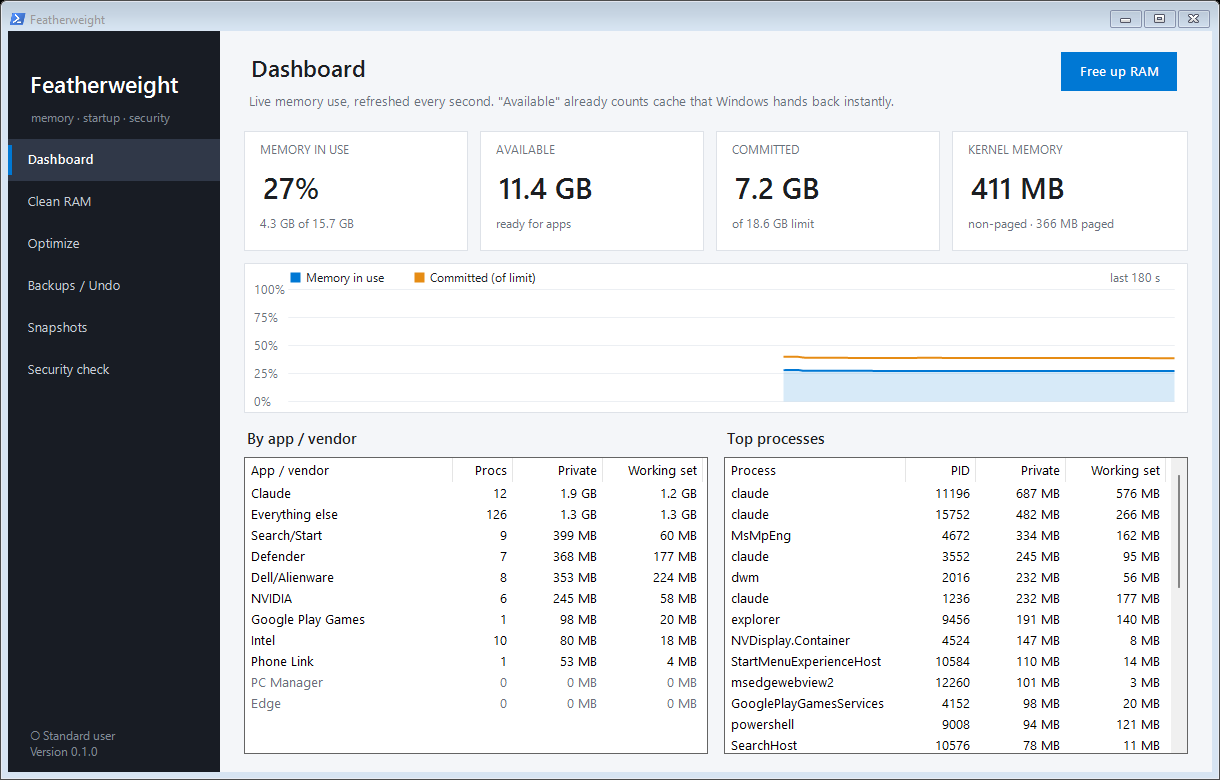
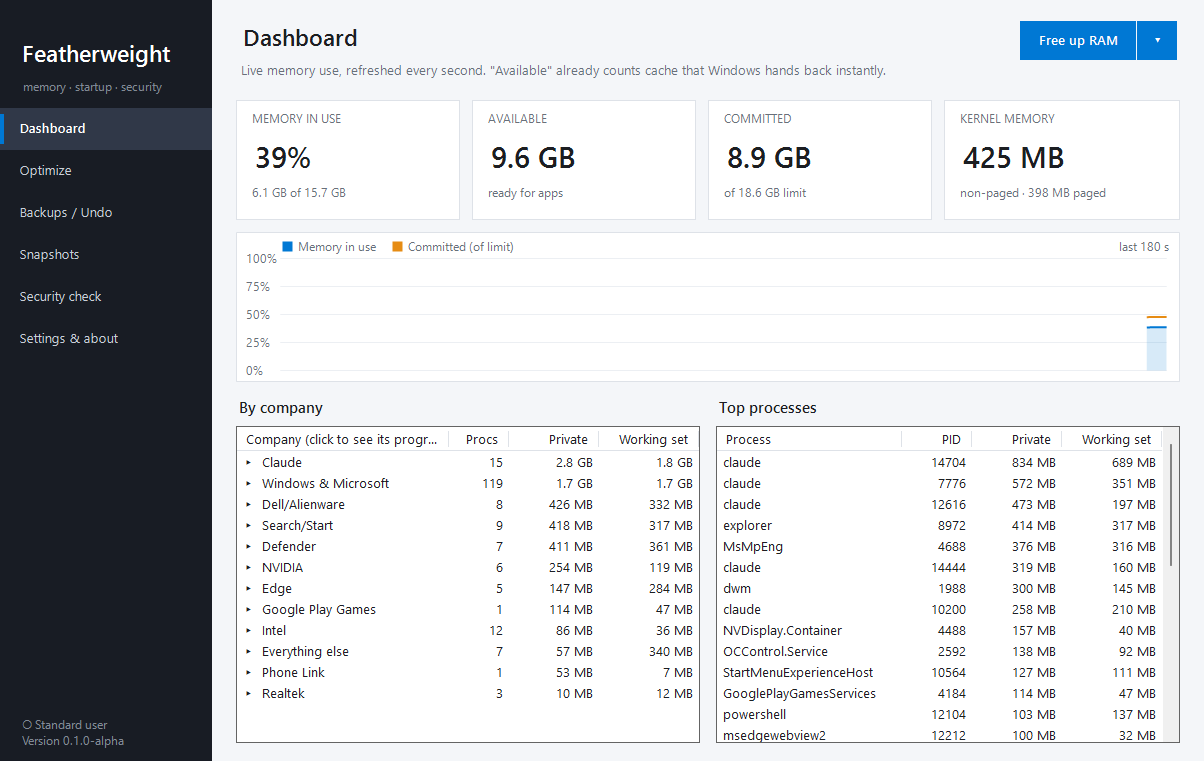
Prepare 0.1.0-alpha: pre-release updates, README, images, test report form
- version.txt 0.1.0-alpha; CHANGELOG section [0.1.0-alpha].
- Update check: someone running a pre-release is shown the newest release of
  any kind (GitHub's "latest" skips pre-releases); versions compare the
  semantic-versioning way (0.1.0 > 0.1.0-alpha.2 > 0.1.0-alpha).
- Release workflow marks suffixed tags (v0.1.0-alpha) as pre-releases.
- Dark themes: lists use the dark "items view" style (readable group titles).
- README: plain description ("free, open-source RAM cleaner and startup
  optimizer for Windows 10 and 11"), alpha note, download links to all
  releases, checksum how-to, themes section, "Help test the alpha", FAQ on
  SmartScreen/antivirus warnings, updated brand coverage.
- New images: dashboard, optimize, six-theme gallery, social preview.
- New issue form: Test report (alpha). CLAUDE.md: Themes.cs, display-scale
  and theme rules, pre-release notes.

diff --git a/src/Featherweight/Updates.cs b/src/Featherweight/Updates.cs
@@ -19,23 +19,29 @@ namespace Featherweight
         public static string ReleasesPage { get { return ProjectPage + "/releases"; } }
         public static string NewIssuePage { get { return ProjectPage + "/issues/new/choose"; } }
 
-        /// <returns>The latest release, or null with a reason in <paramref name="error"/>.</returns>
+        /// <returns>The newest release, or null with a reason in <paramref name="error"/>.</returns>
+        /// <remarks>
+        /// GitHub's "latest release" skips pre-releases (alpha, beta). Someone running a pre-release is shown the newest
+        /// release of any kind, so alpha testers hear about the next alpha as well as the final version; everyone else
+        /// only sees final releases.
+        /// </remarks>
         public static UpdateInfo Check(out string error)
         {
             error = null;
             try
             {
-                ServicePointManager.SecurityProtocol |= SecurityProtocolType.Tls12;
-                var req = (HttpWebRequest)WebRequest.Create("https://api.github.com/repos/" + Repo + "/releases/latest");
-                req.UserAgent = "Featherweight/" + MainForm.AppVersion;
-                req.Accept = "application/vnd.github+json";
-                req.Timeout = 10000;
-                using (var resp = (HttpWebResponse)req.GetResponse())
-                using (var r = new StreamReader(resp.GetResponseStream()))
+                bool pre = IsPrerelease(MainForm.AppVersion);
+                var json = Get("https://api.github.com/repos/" + Repo + (pre ? "/releases?per_page=20" : "/releases/latest"));
+                var releases = pre ? ((json as List<object>) ?? new List<object>()).OfType<Dictionary<string, object>>().ToList()
+                                   : new List<Dictionary<string, object>> { (Dictionary<string, object>)json };
+                UpdateInfo best = null;
+                foreach (var d in releases.Where(d => !d.Bool("draft")))
                 {
-                    var d = Json.Parse(r.ReadToEnd()) as Dictionary<string, object>;
-                    return new UpdateInfo { Version = (d.Str("tag_name") ?? "").TrimStart('v', 'V'), Url = d.Str("html_url") ?? ReleasesPage, Notes = d.Str("body") ?? "" };
+                    var info = new UpdateInfo { Version = (d.Str("tag_name") ?? "").TrimStart('v', 'V'), Url = d.Str("html_url") ?? ReleasesPage, Notes = d.Str("body") ?? "" };
+                    if (best == null || IsNewer(info.Version, best.Version)) best = info;
                 }
+                if (best == null) error = "No releases have been published yet.";
+                return best;
             }
             catch (WebException ex)
             {
@@ -46,12 +52,50 @@ namespace Featherweight
             catch (Exception ex) { error = ex.Message; return null; }
         }
 
-        /// <summary>Compares "1.2.3" style versions; anything after "-" or "+" is ignored.</summary>
-        public static bool IsNewer(string candidate, string current)
+        static object Get(string url)
+        {
+            ServicePointManager.SecurityProtocol |= SecurityProtocolType.Tls12;
+            var req = (HttpWebRequest)WebRequest.Create(url);
+            req.UserAgent = "Featherweight/" + MainForm.AppVersion;
+            req.Accept = "application/vnd.github+json";
+            req.Timeout = 10000;
+            using (var resp = (HttpWebResponse)req.GetResponse())
+            using (var r = new StreamReader(resp.GetResponseStream()))
+                return Json.Parse(r.ReadToEnd());
+        }
+
+        public static bool IsPrerelease(string v) { return ((v ?? "").Split('+')[0]).Contains("-"); }
+
+        /// <summary>
+        /// Compares versions like "1.2.3", "0.1.0-alpha" and "0.1.0-alpha.2" the usual way (semantic versioning):
+        /// numbers first; for equal numbers a final release is newer than its alphas, and "alpha.2" is newer than "alpha".
+        /// Anything after "+" (the build's commit) is ignored.
+        /// </summary>
+        public static bool IsNewer(string candidate, string current) { return Compare(candidate, current) > 0; }
+
+        public static int Compare(string x, string y)
         {
             Version a, b;
-            return Version.TryParse(Normalize(candidate), out a) && Version.TryParse(Normalize(current), out b) && a > b;
+            if (!Version.TryParse(Normalize(x), out a) || !Version.TryParse(Normalize(y), out b)) return 0;
+            int c = a.CompareTo(b);
+            if (c != 0) return c;
+            string pa = Pre(x), pb = Pre(y);
+            if (pa == pb) return 0;
+            if (pa == "") return 1;   // final > pre-release
+            if (pb == "") return -1;
+            var ia = pa.Split('.'); var ib = pb.Split('.');
+            for (int i = 0; i < Math.Max(ia.Length, ib.Length); i++)
+            {
+                if (i >= ia.Length) return -1;
+                if (i >= ib.Length) return 1;
+                int na, nb; bool da = int.TryParse(ia[i], out na), db = int.TryParse(ib[i], out nb);
+                int r = da && db ? na.CompareTo(nb) : da ? -1 : db ? 1 : string.CompareOrdinal(ia[i], ib[i]);
+                if (r != 0) return r;
+            }
+            return 0;
         }
+
+        static string Pre(string v) { var core = (v ?? "").Split('+')[0]; int i = core.IndexOf('-'); return i < 0 ? "" : core.Substring(i + 1).ToLowerInvariant(); }
 
         static string Normalize(string v)
         {

diff --git a/src/Featherweight/Themes.cs b/src/Featherweight/Themes.cs
@@ -332,6 +332,7 @@ namespace Featherweight
             }
         }
 
-        static void Dark(Control c) { try { SetWindowTheme(c.Handle, "DarkMode_Explorer", null); } catch { } }
+        // Lists use the dark "items view" style (light group titles, no column lines); everything else the dark Explorer style.
+        static void Dark(Control c) { try { SetWindowTheme(c.Handle, c is ListView ? "DarkMode_ItemsView" : "DarkMode_Explorer", null); } catch { } }
     }
 }

diff --git a/README.md b/README.md
@@ -1,24 +1,28 @@
 <div align="center">
 
-<img src="docs/images/social-preview.png" alt="Featherweight: see what's using your RAM, switch off the background bloat, undo anything" width="820">
+<img src="docs/images/social-preview.png" alt="Featherweight: a free RAM cleaner and startup optimizer for Windows 10 and 11" width="820">
 
 # Featherweight
 
-**See what's using your PC's memory. Switch off the background bloat you don't need. Undo anything, any time.**
+**A free, open-source RAM cleaner and startup optimizer for Windows 10 and 11.**<br>
+See what's using your PC's memory, switch off the background bloat you don't need, and undo anything, any time.
 
 [![License: MIT](https://img.shields.io/badge/license-MIT-blue.svg)](LICENSE)
 ![Windows 10 & 11](https://img.shields.io/badge/Windows-10%20(22H2)%20%7C%2011-0078D4)
-![Status: early development](https://img.shields.io/badge/status-early%20development-orange)
+[![Latest version](https://img.shields.io/github/v/release/workingwithbunnies/Featherweight?include_prereleases&label=download&color=0078D4)](../../releases)
+![Status: alpha](https://img.shields.io/badge/status-alpha%20(testing)-orange)
 ![No telemetry](https://img.shields.io/badge/telemetry-none-brightgreen)
 
-[**Download**](../../releases/latest) · [Features](#features) · [Is it safe?](#is-it-safe) · [FAQ](#faq) · [Roadmap](docs/ROADMAP.md) · [Report a problem](../../issues/new/choose)
+[**Download**](../../releases) · [Features](#features) · [Is it safe?](#is-it-safe) · [Help test](#help-test-the-alpha) · [FAQ](#faq) · [Report a problem](../../issues/new/choose)
 
 </div>
 
 ---
 
 > [!NOTE]
-> Featherweight is in **early development**. The first public release is being tested. Feedback is very welcome!
+> This is an **alpha**: the first public test version. It has been used and tested on two laptops (a Dell and an HP)
+> and hasn't met many other PCs yet. Everything it changes is backed up and undoable, but expect rough edges, and
+> please [tell us how it went on your PC](#help-test-the-alpha).
 
 ## Why Featherweight?
 
@@ -31,6 +35,10 @@ Featherweight shows you exactly what's running and **how much memory each thing 
 
 On the laptop it was developed on, the background apps it found were using about **1 GB of memory all the time**.
 Results depend entirely on what's installed on your PC.
+
+People use it to **free up RAM before gaming**, **stop bloatware and startup apps** from running in the background,
+**see which apps use the most memory**, and **check their PC's security settings**, all in one small app with no
+installer, no ads and no account.
 
 ## Features
 
@@ -72,6 +80,13 @@ It isn't an antivirus: Microsoft Defender (or your own antivirus) does the scann
 ### 📸 Snapshots
 Save a snapshot of memory use and compare two, e.g. before and after a change.
 
+### 🎨 Six themes
+<img src="docs/images/themes.png" alt="The Dashboard in six themes: Featherweight, Classic 9x, XP Blue, Frutiger Aero, Midnight and Synthwave" width="820">
+
+Pick a look in **Settings & about → Theme**: *Featherweight* (standard), *Classic 9x* (inspired by Windows 95/98, with a
+green-on-black graph), *XP Blue* (inspired by Windows XP), *Frutiger Aero* (inspired by Windows 7), *Midnight* (dark
+mode) and *Synthwave* (neon). It switches straight away and is remembered.
+
 ## Is it safe?
 
 Featherweight changes Windows settings, so it's built around a few promises:
@@ -90,13 +105,17 @@ It's open source: anyone can read exactly what it does. Security issues can be r
 
 ## Download and run
 
-1. Go to [**Releases**](../../releases/latest) and download `Featherweight.exe`.
+1. Go to [**Releases**](../../releases) and download `Featherweight.exe` from the newest version.
 2. Double-click it. No installer is needed; it uses .NET Framework 4.8, which is built into Windows 10 (22H2) and 11.
 3. If Windows shows **"Windows protected your PC"**, click **More info → Run anyway**. This appears for new apps
    that don't have many downloads yet. Code signing is [on the roadmap](docs/ROADMAP.md).
 
 Featherweight opens as a normal user, so you can look around safely. When you optimize, undo or clean RAM,
 it asks to restart with administrator rights.
+
+**Check that your download is genuine (optional):** each release lists the SHA-256 checksum of `Featherweight.exe`.
+In PowerShell, run `Get-FileHash .\Featherweight.exe` in the download folder and compare the result with the one on
+the release page. If they match, the file is exactly the one GitHub built from this source code.
 
 **Where your data lives:** backups and logs are kept in `%LocalAppData%\Featherweight`.
 **Portable use** (e.g. on a USB stick): put an empty file named `portable` next to `Featherweight.exe`, and
@@ -108,15 +127,30 @@ everything stays in that folder.
 
 Nothing else is left behind: no services, no startup entries.
 
+## Help test the alpha
+
+Thank you for trying it! The most useful thing you can do is use it on **your** PC and tell us what happened,
+especially if it isn't a Dell or HP laptop, runs Windows 10, uses another display language, or uses display scaling
+above 100 %.
+
+1. Look around first (no admin needed): **Dashboard**, **Optimize** (does it find your PC's background apps, and are
+   the descriptions right?), **Security check**, and a few **themes**.
+2. If you like, try changing something: optimize one or two items, then **Restore default** to put them back.
+3. Tell us how it went with the [**Test report**](../../issues/new?template=test_report.yml) form. It takes two
+   minutes. Screenshots help a lot, and so does **Settings & about → Export diagnostics** (you choose what's in it;
+   your user and PC name are removed).
+
+Not on GitHub? Send the maintainer your notes and screenshots directly; that works too.
+
 ## FAQ
 
 <details>
 <summary><b>Do I need a Dell or a gaming laptop?</b></summary>
 
 No. Everything works on any Windows 10/11 PC. The Optimize page lists background software from any brand that's
-on your PC. Detailed, reviewed advice currently covers Dell/Alienware, NVIDIA, Intel and Windows itself; other brands
-(ASUS, MSI, Lenovo, HP, Razer…) show as *Not reviewed* until they're added, and you can
-[ask for your PC's apps](../../issues/new/choose).
+on your PC. Reviewed advice currently covers Dell/Alienware, HP/OMEN, NVIDIA, AMD, Intel, Realtek and Windows itself,
+plus apps like Steam, the EA app and Google Play Games; anything else shows as *Not reviewed* until it's added, and you
+can [ask for your PC's apps](../../issues/new/choose).
 </details>
 
 <details>
@@ -126,6 +160,16 @@ Partly, and Featherweight is honest about it. Windows uses spare memory as a cac
 instantly when a program needs it. The cleaner does free memory right away (useful before launching something
 heavy), but programs pull back what they need over time. The lasting improvement comes from the **Optimize**
 page: apps that no longer start with Windows don't use memory at all.
+</details>
+
+<details>
+<summary><b>Why does Windows (or my antivirus) warn about it?</b></summary>
+
+Featherweight is new and not yet code-signed, so Windows SmartScreen shows *Windows protected your PC* until enough
+people have downloaded it (click **More info → Run anyway**). Some antivirus programs are also suspicious of any app
+that changes services and startup settings. The full source code is here for anyone to read, every release is built by
+GitHub from that code, and you can [check the checksum](#download-and-run). Code signing is on the
+[roadmap](docs/ROADMAP.md).
 </details>
 
 <details>

diff --git a/CLAUDE.md b/CLAUDE.md
@@ -33,6 +33,7 @@ improvements proactively. Be fully transparent about limitations and anything un
 | `Updates.cs`, `Diagnostics.cs` | GitHub release check; diagnostics export, `Privacy.Redact`, crash handling |
 | `SecurityScan.cs`, `SecurityChecks.cs` | Security check (read-only): Defender, certificates, startup, tasks, hijack points, network; Windows protections, updates, sign-in/sharing, browser extensions. Fixes go through the engine; Windows security settings only get an "Open in Windows" link |
 | `Native.cs`, `Memory.cs`, `Cleaner.cs`, `Json.cs`, `Ui.cs` | Win32 calls, memory figures, RAM cleaner, security sweep, JSON, theme/controls |
+| `Themes.cs` | Six palettes (every colour/font), `ThemedButton`, theme tiles, `ThemeApply` (text boxes, lists, dark scrollbars). `Theme.Use(palette)` runs before a window is built; switching rebuilds `MainForm` (`Rebuild`, loop in `Program.Main`) |
 
 Catalog format and contribution rules: `docs/CATALOG.md`. Roadmap: `docs/ROADMAP.md`.
 
@@ -61,6 +62,8 @@ Catalog format and contribution rules: `docs/CATALOG.md`. Roadmap: `docs/ROADMAP
   file and use `git commit -F <file>` (PowerShell mangles multi-line `-m`).
 - Update `CHANGELOG.md` under *Unreleased* for user-visible changes.
 - Releases: bump `version.txt`, move *Unreleased* to `## [x.y.z]`, tag `vx.y.z`, push the tag, then publish the draft.
+  Versions with a suffix (`0.1.0-alpha`, `0.1.0-alpha.2`, `0.2.0-beta`) become GitHub pre-releases; the update check
+  shows pre-releases only to people running a pre-release (`Updates.Check`, semantic-version compare in `Updates.Compare`).
 
 ## Testing tips (no test project yet)
 
@@ -72,6 +75,14 @@ Catalog format and contribution rules: `docs/CATALOG.md`. Roadmap: `docs/ROADMAP
 - Admin-only paths (service changes, full RAM cleaner, restore point creation) can't be tested without elevation;
   say so explicitly when reporting.
 - For `gh`/`git` with complex quoting, use Git Bash rather than PowerShell.
+
+## Display scale and themes
+
+- The app is system-DPI-aware and WinForms auto-scaling doesn't run for these code-built windows
+  (`AutoScaleMode.None`): every fixed pixel size goes through `Theme.S()` / `Theme.Pad()`.
+- Never hard-code colours or fonts: use `Theme.*` (or `Theme.Current.*` for palette-only fields) so all six themes work.
+- Simulate a scale off-screen by setting `Theme.Dpi` and swapping the `Theme` fonts via reflection before building a window;
+  call `Application.EnableVisualStyles()` in test scripts or list groups won't show.
 
 ## WinForms gotchas seen here
 

diff --git a/CHANGELOG.md b/CHANGELOG.md
@@ -4,6 +4,10 @@ All notable changes to Featherweight are listed here. Versions follow [Semantic 
 
 ## [Unreleased]
 
+## [0.1.0-alpha] - 2026-11-09
+
+First public test version (alpha). Tested on two laptops so far (Dell G15, HP OMEN 16, both Windows 11); feedback from other PCs is very welcome.
+
 ### Added
 - **Themes** (Settings & about → Theme): six looks, switched with one click and remembered. *Featherweight* (the
   standard look), *Classic 9x* (grey bevelled buttons, navy highlights and a green-on-black Task Manager style graph,
